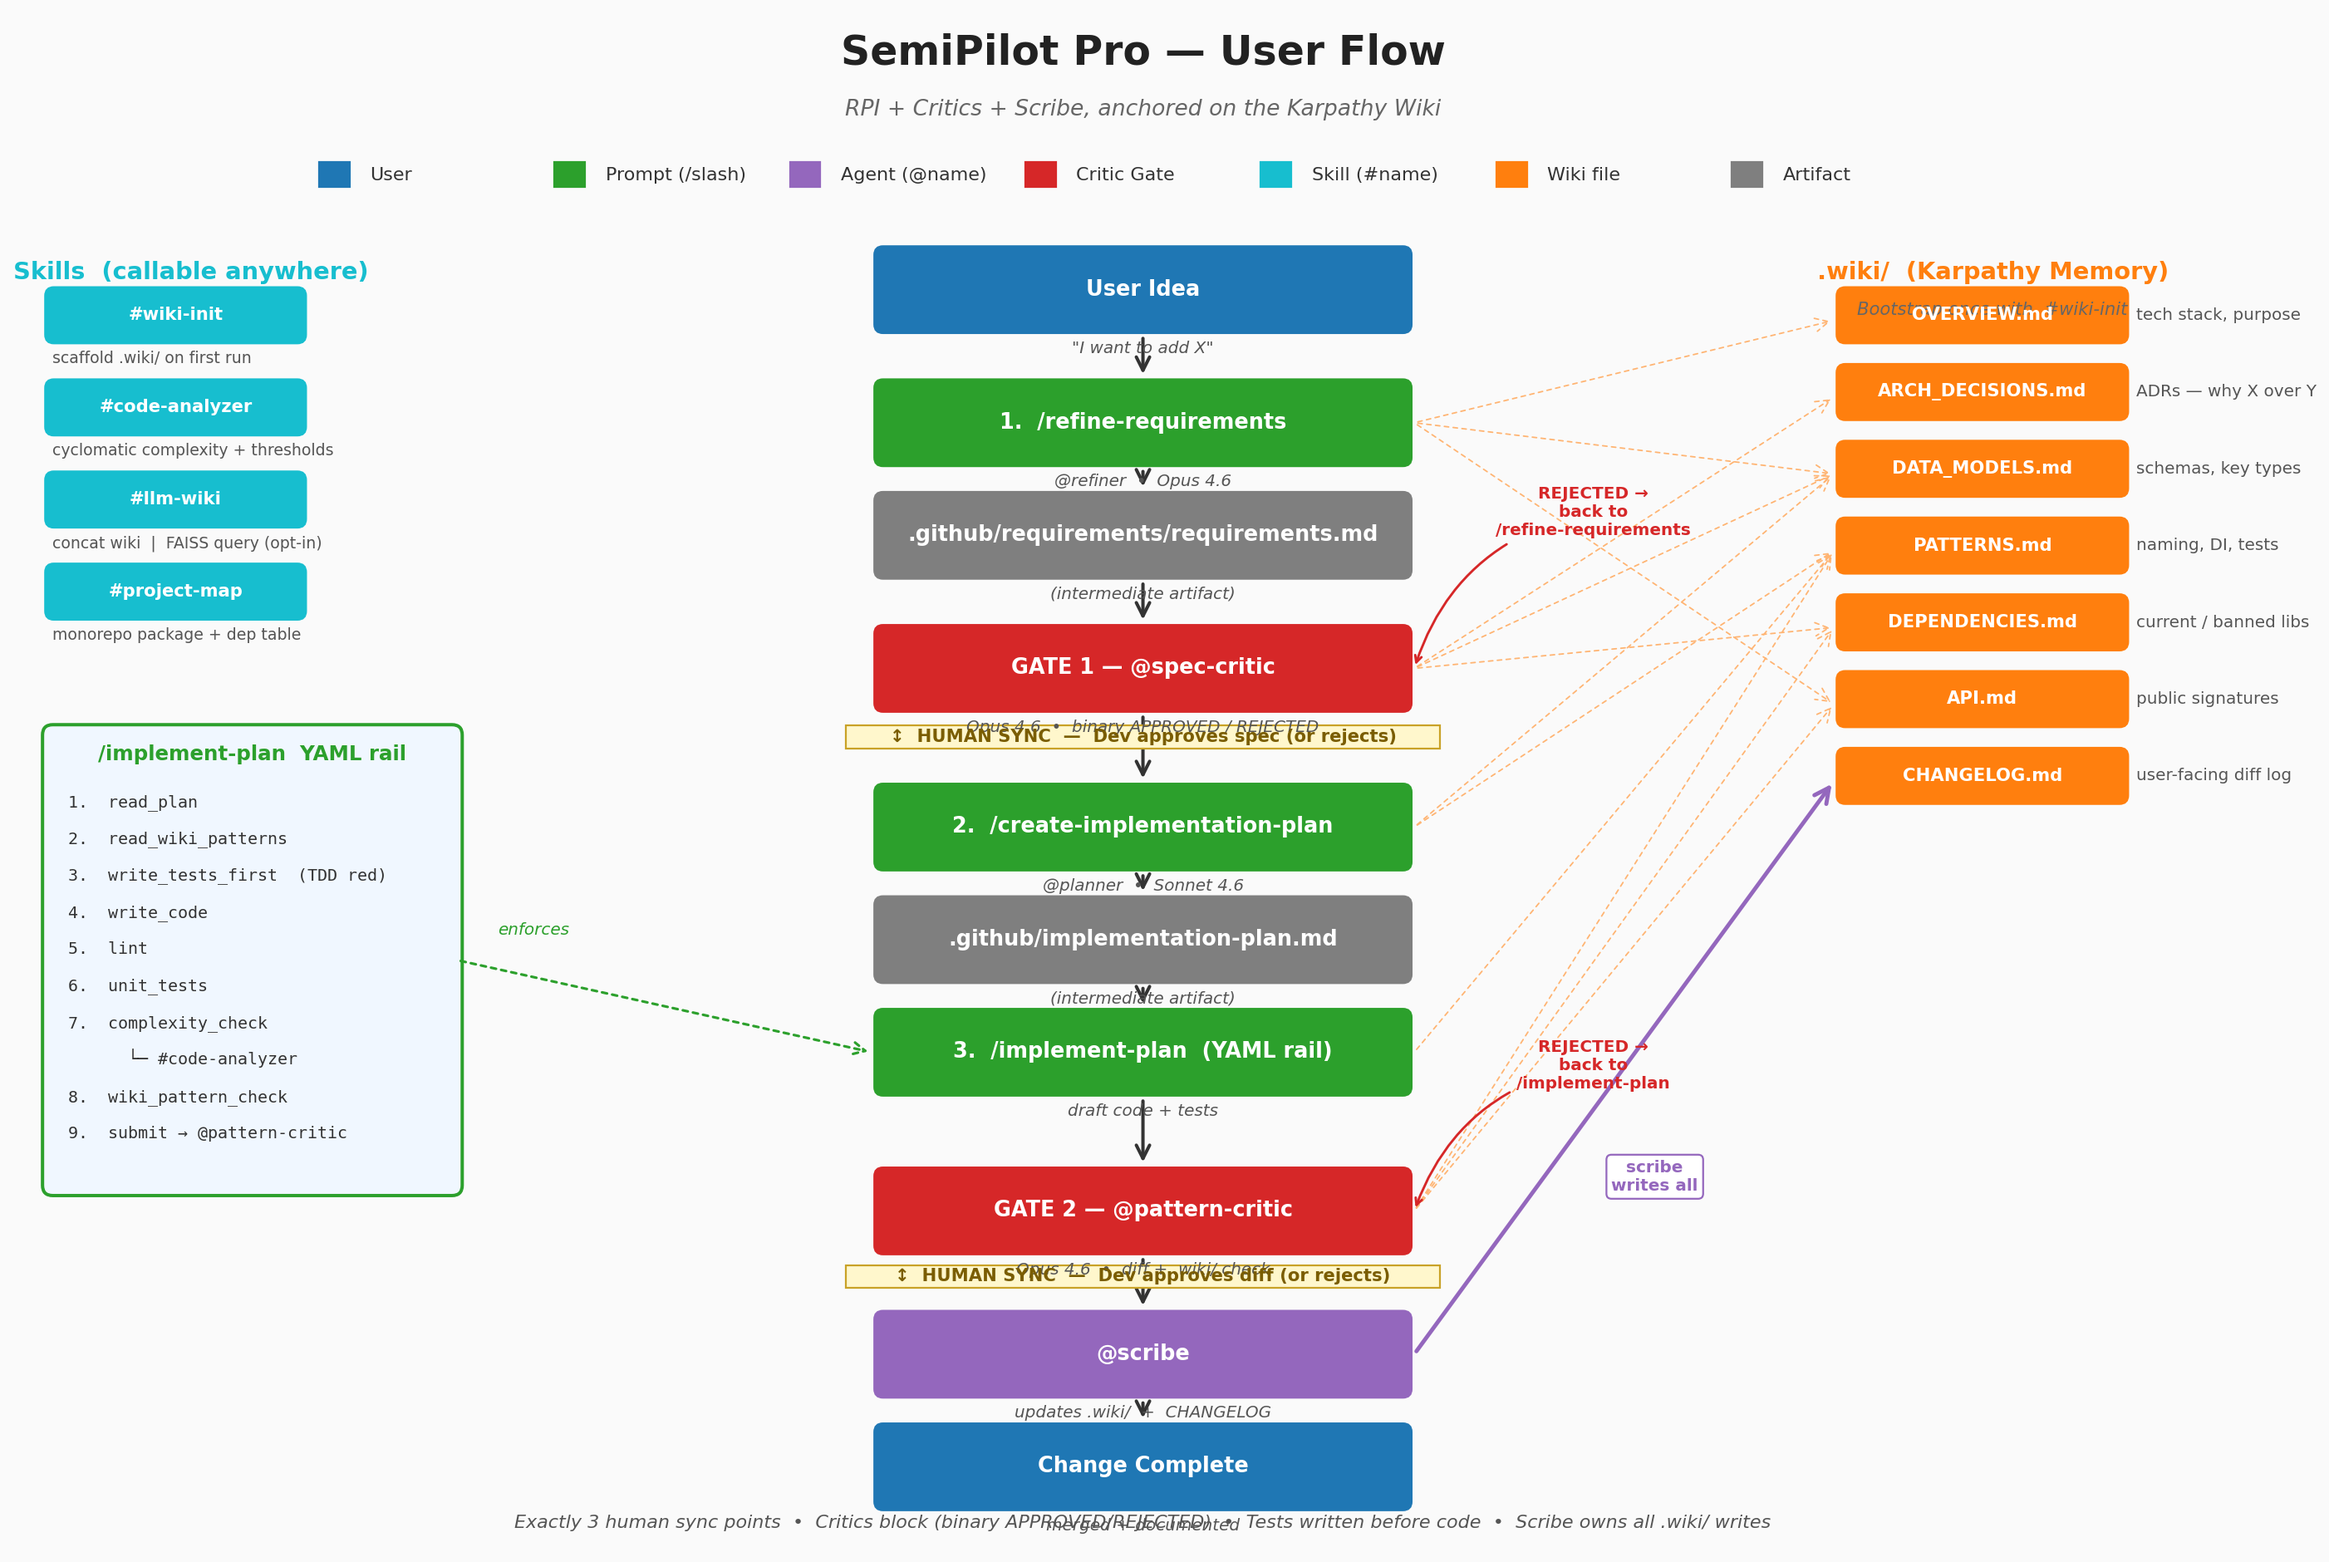
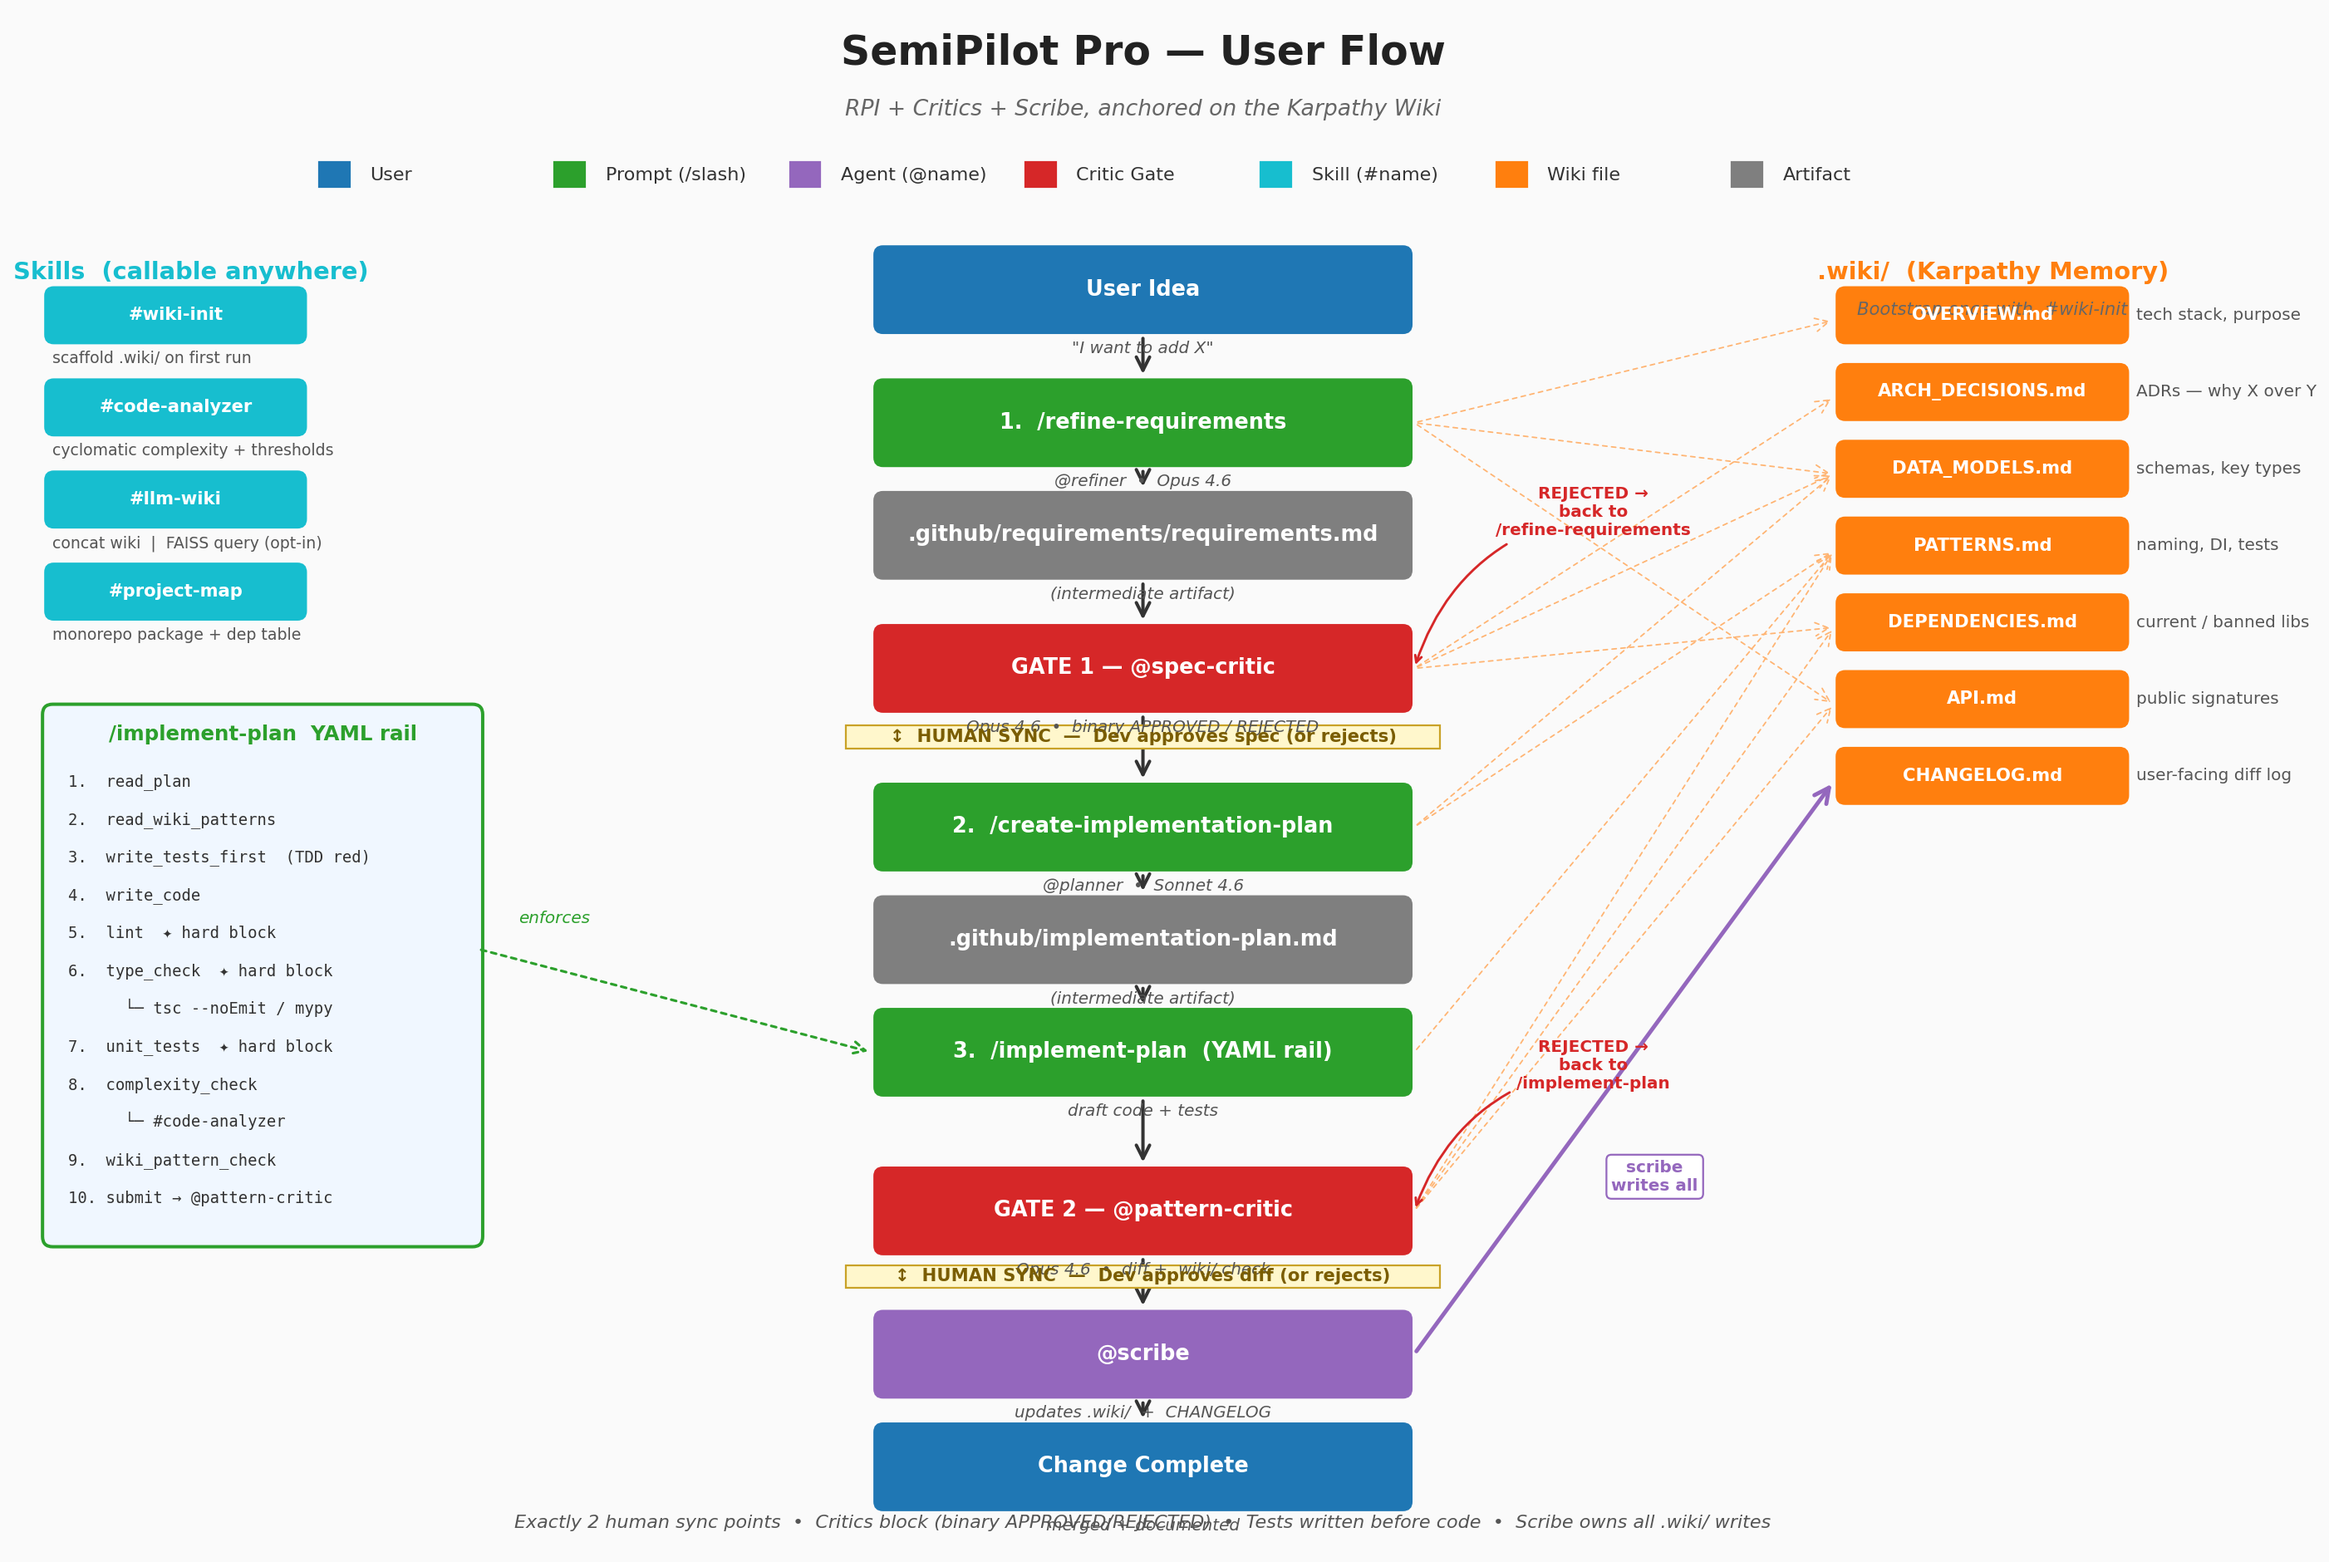
Regenerate flow diagram: 10-step rail, 2 sync gates
- Add type_check step (tsc/mypy) to YAML rail callout
- Renumber steps to 10 total
- Mark lint, type_check, unit_tests as hard blocks
- Update footnote from 3 to 2 human sync points

Changed region(s): [[0.031, 0.4628, 0.2483, 0.7713], [0.3104, 0.6479, 0.3414, 0.6787]]

diff --git a/docs/generate_flow_diagram.py b/docs/generate_flow_diagram.py
@@ -225,8 +225,8 @@ def main():
         ax.text(sx + 0.05, y - 0.22, desc, fontsize=8.5, color="#555")
 
     # YAML rail callout (bottom-left)
-    rail_x, rail_y = 0.3, 3.5
-    rail_w, rail_h = 4.0, 4.5
+    rail_x, rail_y = 0.3, 3.0
+    rail_w, rail_h = 4.2, 5.2
     rect = FancyBboxPatch(
         (rail_x, rail_y), rail_w, rail_h,
         boxstyle="round,pad=0.05,rounding_size=0.1",
@@ -243,21 +243,23 @@ def main():
         "2.  read_wiki_patterns",
         "3.  write_tests_first  (TDD red)",
         "4.  write_code",
-        "5.  lint",
-        "6.  unit_tests",
-        "7.  complexity_check",
+        "5.  lint  ✦ hard block",
+        "6.  type_check  ✦ hard block",
+        "      └─ tsc --noEmit / mypy",
+        "7.  unit_tests  ✦ hard block",
+        "8.  complexity_check",
         "      └─ #code-analyzer",
-        "8.  wiki_pattern_check",
-        "9.  submit → @pattern-critic",
+        "9.  wiki_pattern_check",
+        "10. submit → @pattern-critic",
     ]
     for i, step in enumerate(rail_steps):
         ax.text(rail_x + 0.2,
-                rail_y + rail_h - 0.75 - i * 0.36,
-                step, fontsize=9, color="#333", family="monospace")
+                rail_y + rail_h - 0.75 - i * 0.37,
+                step, fontsize=8.5, color="#333", family="monospace")
 
     # Enforces arrow from rail box to implement-plan stage
     arr = FancyArrowPatch(
-        (rail_x + rail_w, rail_y + rail_h * 0.5),
+        (rail_x + rail_w, rail_y + rail_h * 0.55),
         (cx - bw / 2 - 0.05, 4.85),
         arrowstyle="->",
         mutation_scale=16,
@@ -266,12 +268,12 @@ def main():
         linestyle=(0, (2, 2)),
     )
     ax.add_patch(arr)
-    ax.text(rail_x + rail_w + 0.4, rail_y + rail_h * 0.5 + 0.25,
+    ax.text(rail_x + rail_w + 0.4, rail_y + rail_h * 0.55 + 0.25,
             "enforces", fontsize=9, color=C_PROMPT, style="italic")
 
     # Footnote
     ax.text(W / 2, 0.2,
-            "Exactly 3 human sync points  •  Critics block (binary APPROVED/REJECTED)  •  "
+            "Exactly 2 human sync points  •  Critics block (binary APPROVED/REJECTED)  •  "
             "Tests written before code  •  Scribe owns all .wiki/ writes",
             ha="center", fontsize=10, color="#555", style="italic")
 
